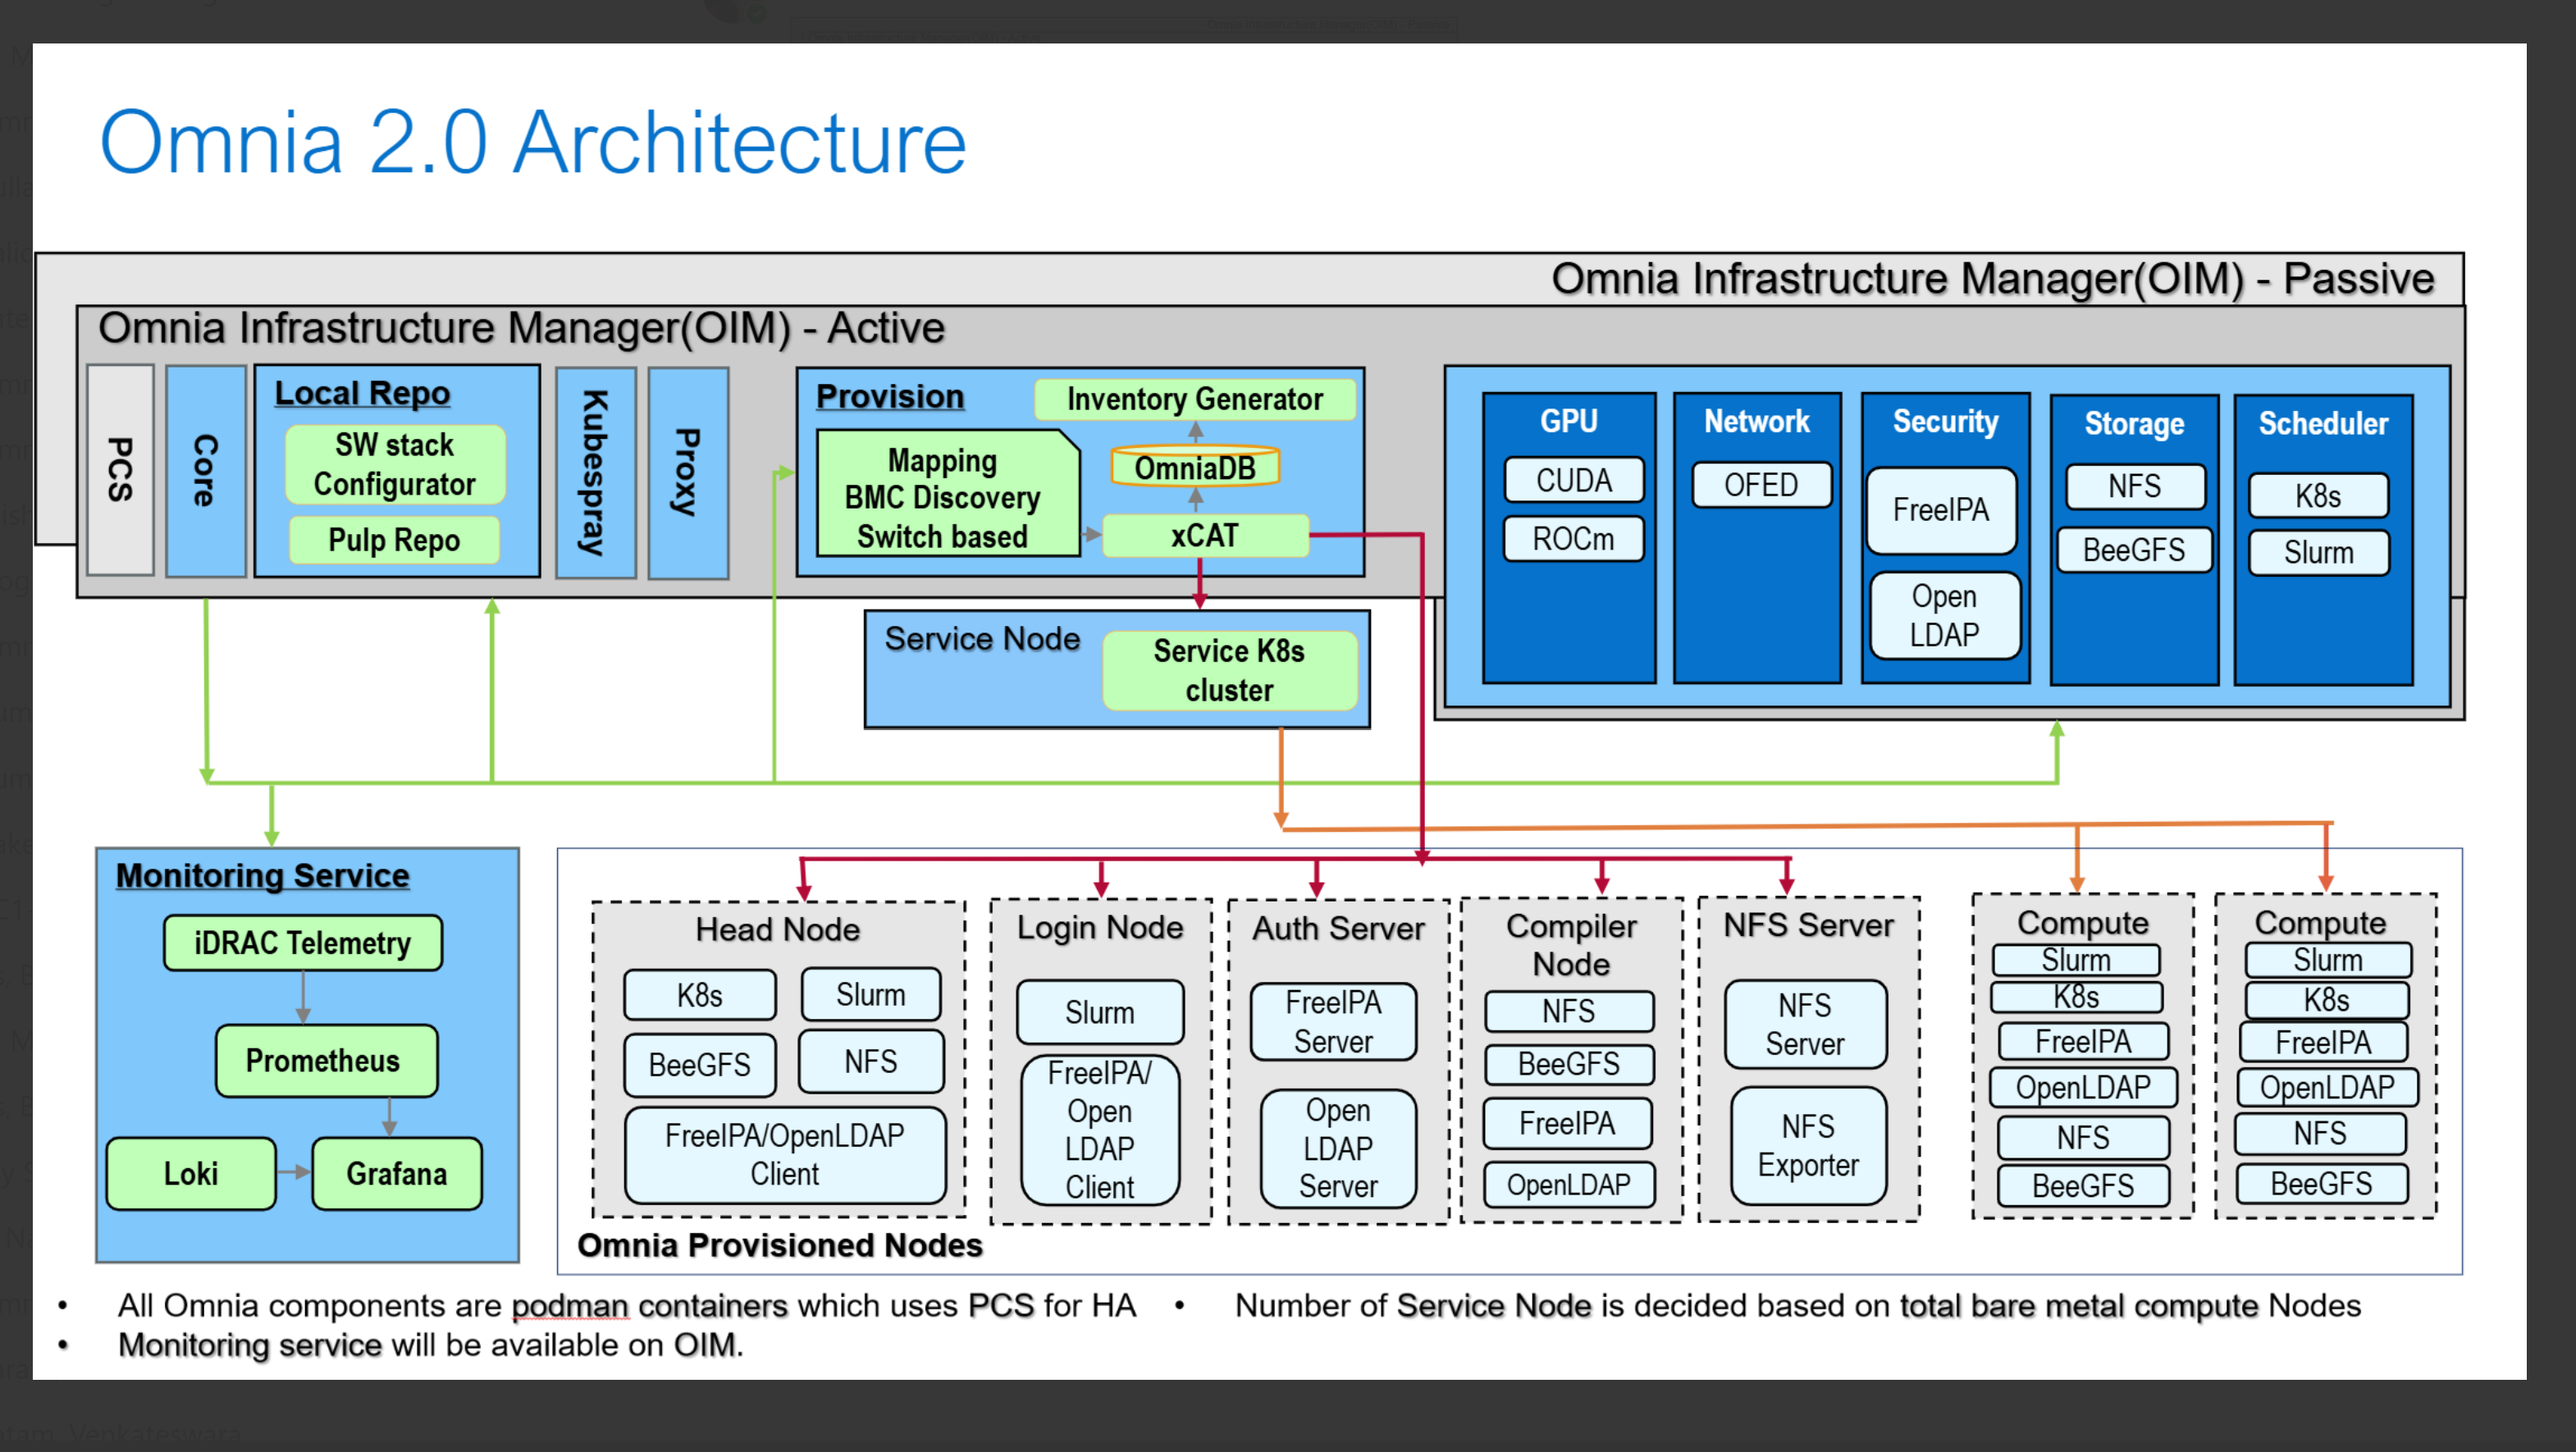
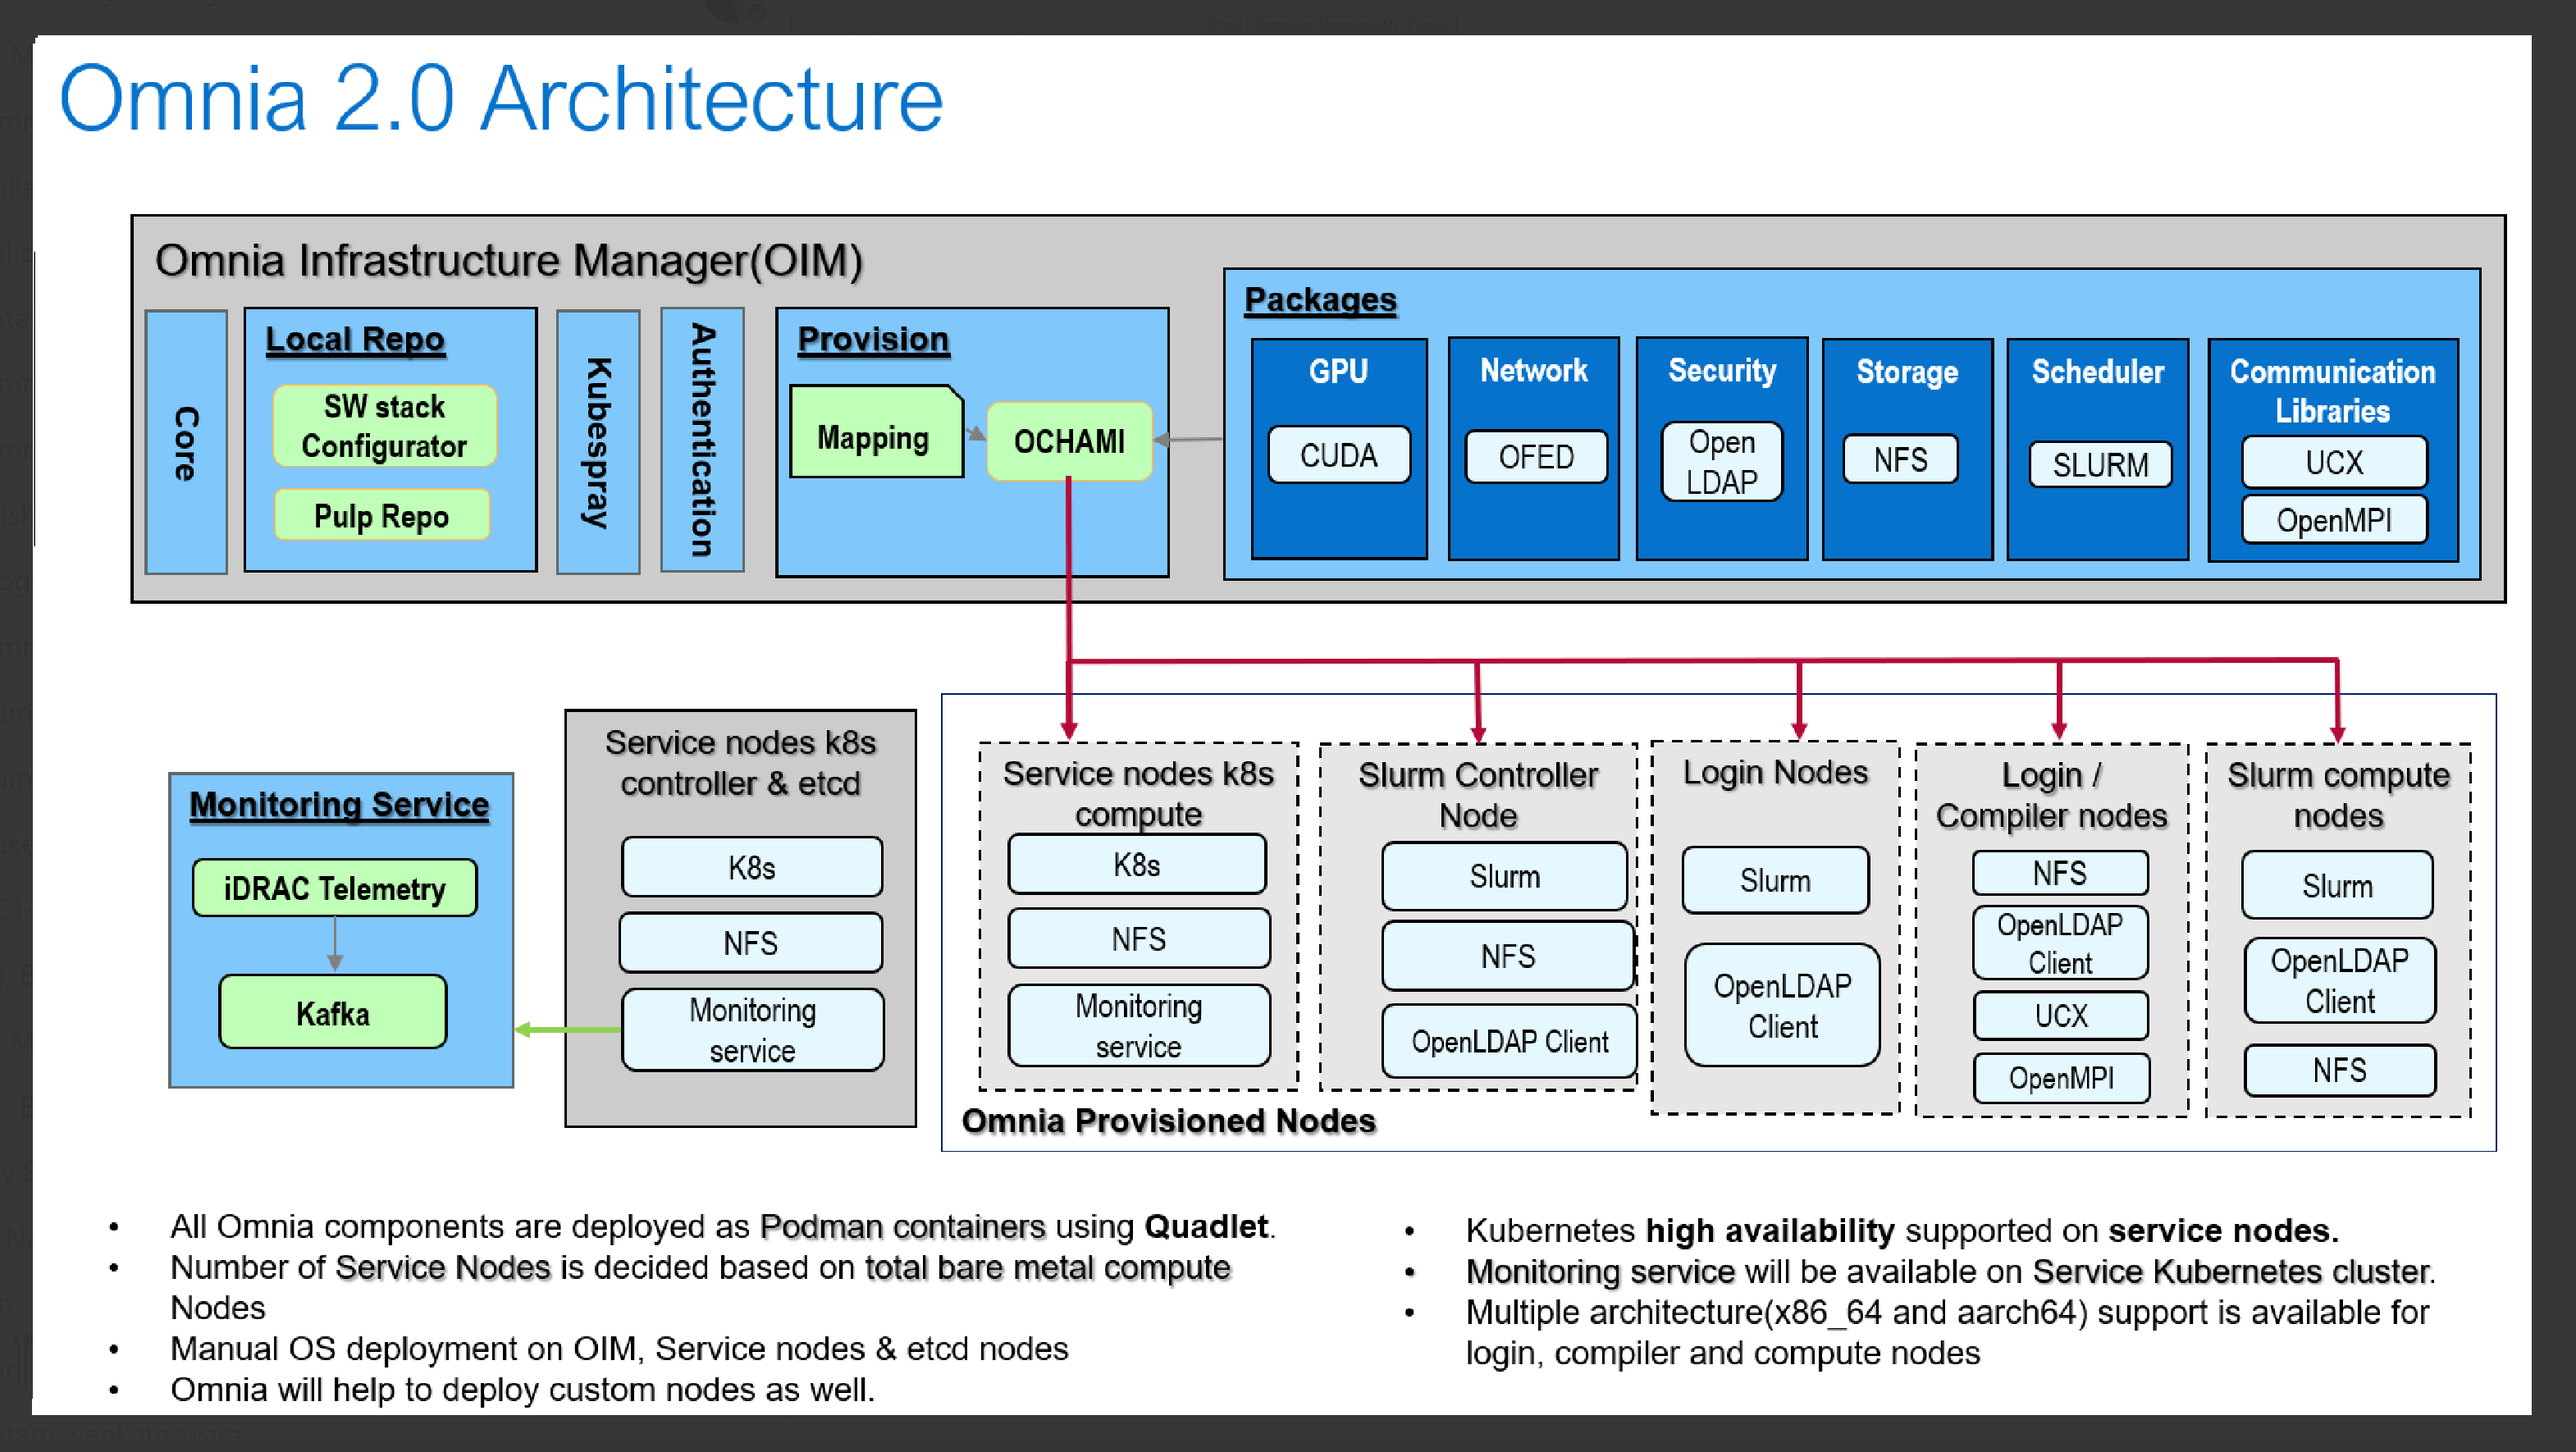
Doc defect fix

diff --git a/docs/source/OmniaInstallGuide/RHEL_new/Provision/provisionparams.rst b/docs/source/OmniaInstallGuide/RHEL_new/Provision/provisionparams.rst
@@ -46,14 +46,8 @@ A sample of the ``/opt/omnia/input/project_default/network_spec.yml`` where node
     ---
          Networks:
          - admin_network:
-             nic_name: "eno1"
-             netmask_bits: "16"
-             static_range: "10.5.0.1-10.5.0.200"
-             dynamic_range: "10.5.1.1-10.5.1.200"
-             correlation_to_admin: true
-             admin_uncorrelated_node_start_ip: "10.5.0.50"
-             primary_oim_admin_ip: "10.5.255.254"
-             primary_oim_bmc_ip: "10.5.255.1"
-             network_gateway: ""
-             DNS: ""
-             MTU: "1500"
+            oim_nic_name: "eno1"
+            netmask_bits: "16"
+            primary_oim_admin_ip: "10.5.255.254"
+            primary_oim_bmc_ip: ""
+            dynamic_range: "10.5.1.1-10.5.1.200"

diff --git a/docs/source/Appendices/hostnamereqs.rst b/docs/source/Appendices/hostnamereqs.rst
@@ -5,4 +5,4 @@ Hostname requirements
 * Hostname cannot start or end with a hyphen ``(-)``.
 * No upper case characters are allowed in the hostname.
 * Hostname cannot start with a number.
-* Hostname and domain name (``hostname00000x.domain.xxx``) cumulatively cannot exceed 64 characters. For example, if the ``node_name`` provided in ``/opt/omnia/input/project_default/provision_config.yml`` is 'node', and the ``domain_name`` provided is 'omnia.test', Omnia will set the hostname of a target cluster  node to ``node000001.omnia.test``.
+* Hostname and domain name (``hostname00000x.domain.xxx``) cumulatively cannot exceed 64 characters.

diff --git a/docs/source/OmniaInstallGuide/RHEL_new/prepare_oim.rst b/docs/source/OmniaInstallGuide/RHEL_new/prepare_oim.rst
@@ -45,8 +45,7 @@ A sample of the ``network_spec.yml`` where nodes are discovered using a **mappin
              primary_oim_admin_ip: "10.5.255.254"
              dynamic_range: "10.5.1.1-10.5.1.200"
           
-  
-   
+     
 2. ``provision_config.yml``
 -------------------------------
 
